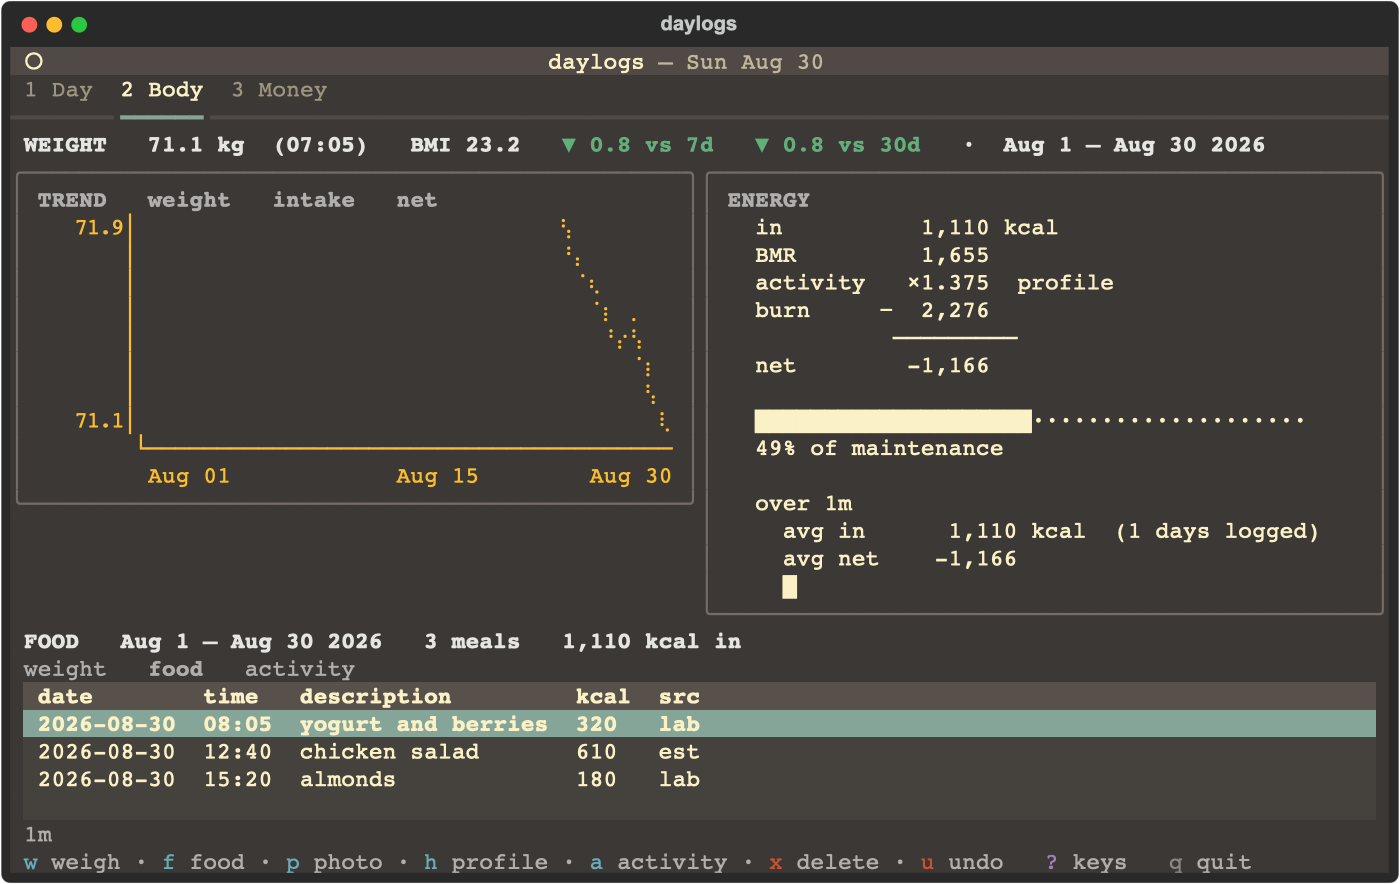
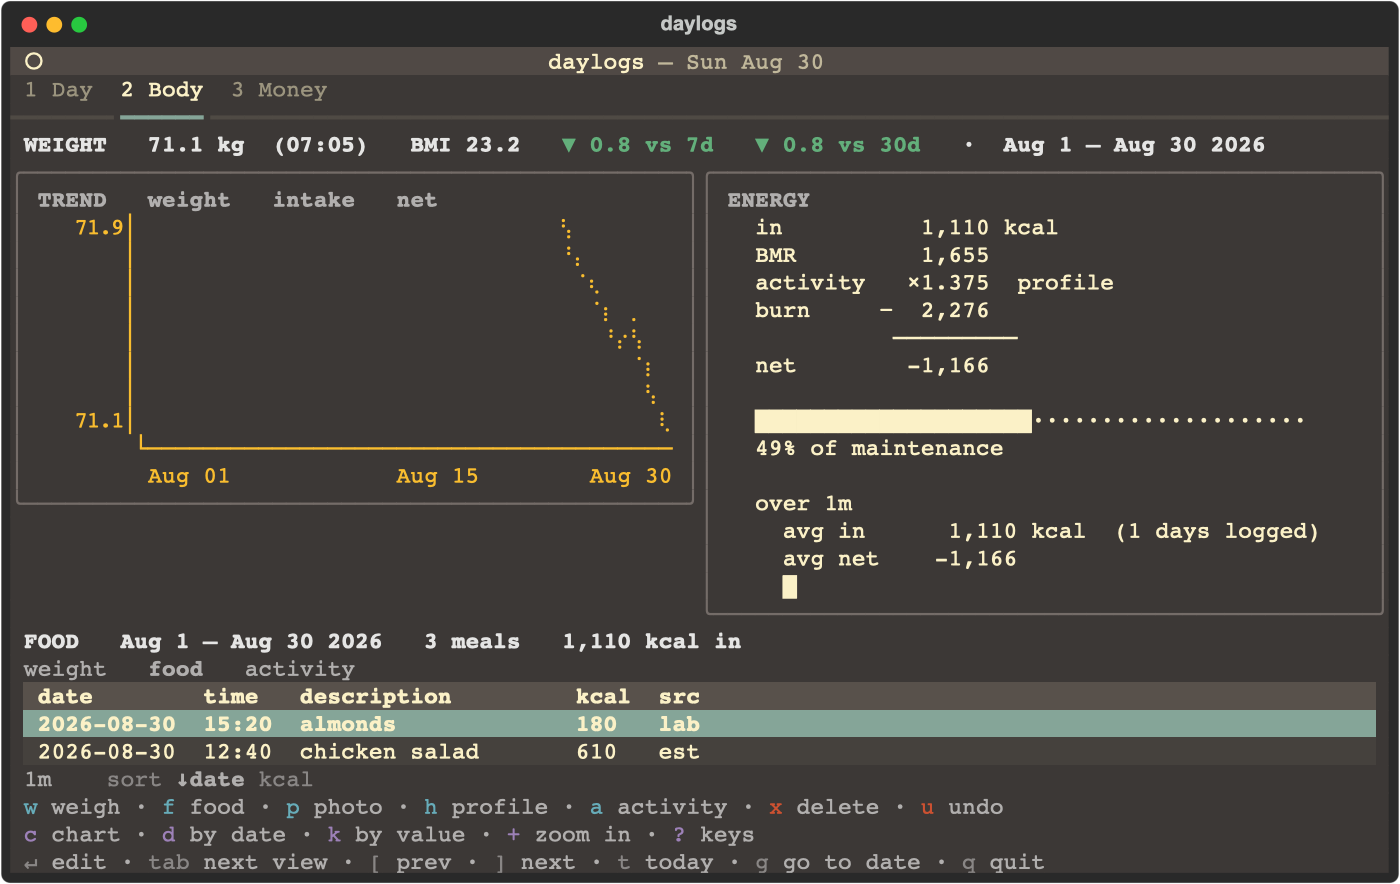
Development is uv now, and the screenshots were a release behind (#47)
The conda env this was developed in is gone, so the docs described a setup that
cannot be followed and `day` was a dangling symlink into a deleted directory.

`uv venv --python 3.13` plus `uv pip install -e '.[dev]'`, which works because
`pyproject.toml` already declared the dev extras — nothing about the project had to
change to support it. The suite passes on 3.13 as well as the 3.12 CI runs, so the
two paths check each other rather than one being the only one that works.
CONTRIBUTING keeps the plain `venv` + `pip` form beside it: it is what CI does, and
requiring uv to contribute would be a dependency the project does not need.

`python tools/screenshots.py` had to change to `.venv/bin/python`. A bare `python`
still exists — uv puts one on PATH — but it has no `textual`, so the old line now
fails on import rather than being merely unidiomatic. Same fix in the script's own
docstring, which is where someone reads it from.

**The screenshots were stale.** Regenerating them to check the new interpreter path
still worked is what surfaced it: `assets/{day,body,money}.png` were showing the
two-row footer, so 0.5.0 shipped a README illustrating a layout the release does
not have. They now show the four stacked key rows, the `sort ↓date kcal` state row,
`d by date` / `k by value`, and a day's food newest-first. That is the failure mode
`tools/screenshots.py` exists to prevent, and it happened anyway because the layout
[…]

diff --git a/tools/screenshots.py b/tools/screenshots.py
@@ -1,7 +1,10 @@
 #!/usr/bin/env python3
 """Render the README's three screenshots from a live app.
 
-    python tools/screenshots.py
+    .venv/bin/python tools/screenshots.py
+
+The venv's interpreter, not a bare `python`: this drives a real app, so it needs `textual`
+and an importable `daylogs`.
 
 Writes `assets/{day,body,money}.png`. Run it after any change that moves the
 layout, and commit what it produces.

diff --git a/README.md b/README.md
@@ -591,27 +591,34 @@ It is an export, not an import; loading it back in is not supported.
 ## Development
 
 Working on daylogs wants an editable install with the dev extras, which is a
-different thing from the isolated tool install above. Any environment manager
-does; this is conda because that's what I use:
+different thing from the isolated tool install above — and worth keeping separate.
+An editable install runs whatever branch happens to be checked out, so if it is
+also your daily `day` then a half-finished branch is what records your weight.
 
 ```bash
-conda create -n daylogs python=3.12
-conda activate daylogs
-pip install -e '.[dev]'
+uv venv --python 3.13
+uv pip install -e '.[dev]'
 ```
 
 ```bash
-pytest
-ruff check .
+.venv/bin/pytest
+.venv/bin/ruff check .
 ```
+
+Or `source .venv/bin/activate` first and drop the prefix. `uv run pytest` works too.
+CI installs the same extras from `pyproject.toml` with plain pip on 3.12, so both
+paths are checked and neither can drift into being the only one that works.
 
 Runtime dependency: `textual`. Everything else is the standard library.
 
 The README's three screenshots are generated, not drawn:
 
 ```bash
-python tools/screenshots.py       # rewrites assets/{day,body,money}.png
+.venv/bin/python tools/screenshots.py   # rewrites assets/{day,body,money}.png
 ```
+
+The venv's interpreter, not a bare `python` — the script drives a real app, so it needs
+`textual` and an importable `daylogs`.
 
 Run it after anything that moves the layout and commit the result. The seed data
 is synthetic and the clock is pinned, so two runs produce byte-identical files —

diff --git a/CLAUDE.md b/CLAUDE.md
@@ -602,9 +602,18 @@ appended prose where it was convenient rather than editing the map.
   published. No real weights, amounts, names, or `/Users/<name>/` paths in
   tracked files. Category slugs and `America/Toronto` are feature-domain
   values, not personal data. Fixtures use round, obviously-fake numbers.
-- Verify dependency changes in a clean env, not just the local conda one. A
+- Verify dependency changes in a clean env, not just the local `.venv`. A
   dependency that happens to be installed locally but is missing from
   `pyproject.toml` only fails once CI builds from scratch.
+- **Local setup is uv.** `uv venv --python 3.13` plus `uv pip install -e '.[dev]'`, so the
+  gate is `.venv/bin/pytest` and `.venv/bin/ruff check .` — there is no conda env any more,
+  and a hardcoded interpreter path is how a session ends up testing a Python that no longer
+  exists. CI stays on plain pip with 3.12, which is deliberate: the two paths check each
+  other, and 3.12 is what `requires-python` promises. The suite passes on both.
+  The daily `day` is a **separate** `uv tool install daylogs` — the published release, not
+  this checkout. An editable install doubling as the daily tool means whatever branch is
+  checked out is what records your weight, which during one session meant running a branch
+  with a broken `add_expense`.
 - Push back on scope creep. This project's whole value is that it stayed
   small.
 

diff --git a/CONTRIBUTING.md b/CONTRIBUTING.md
@@ -31,7 +31,10 @@ something.
 ## Setup
 
 ```bash
-python -m venv .venv && source .venv/bin/activate
-pip install -e '.[dev]'
-pytest -q
+uv venv --python 3.13
+uv pip install -e '.[dev]'
+.venv/bin/pytest -q
 ```
+
+`python -m venv .venv && pip install -e '.[dev]'` works just as well if you'd rather not
+install uv — CI does exactly that on 3.12, which is the version `requires-python` promises.
